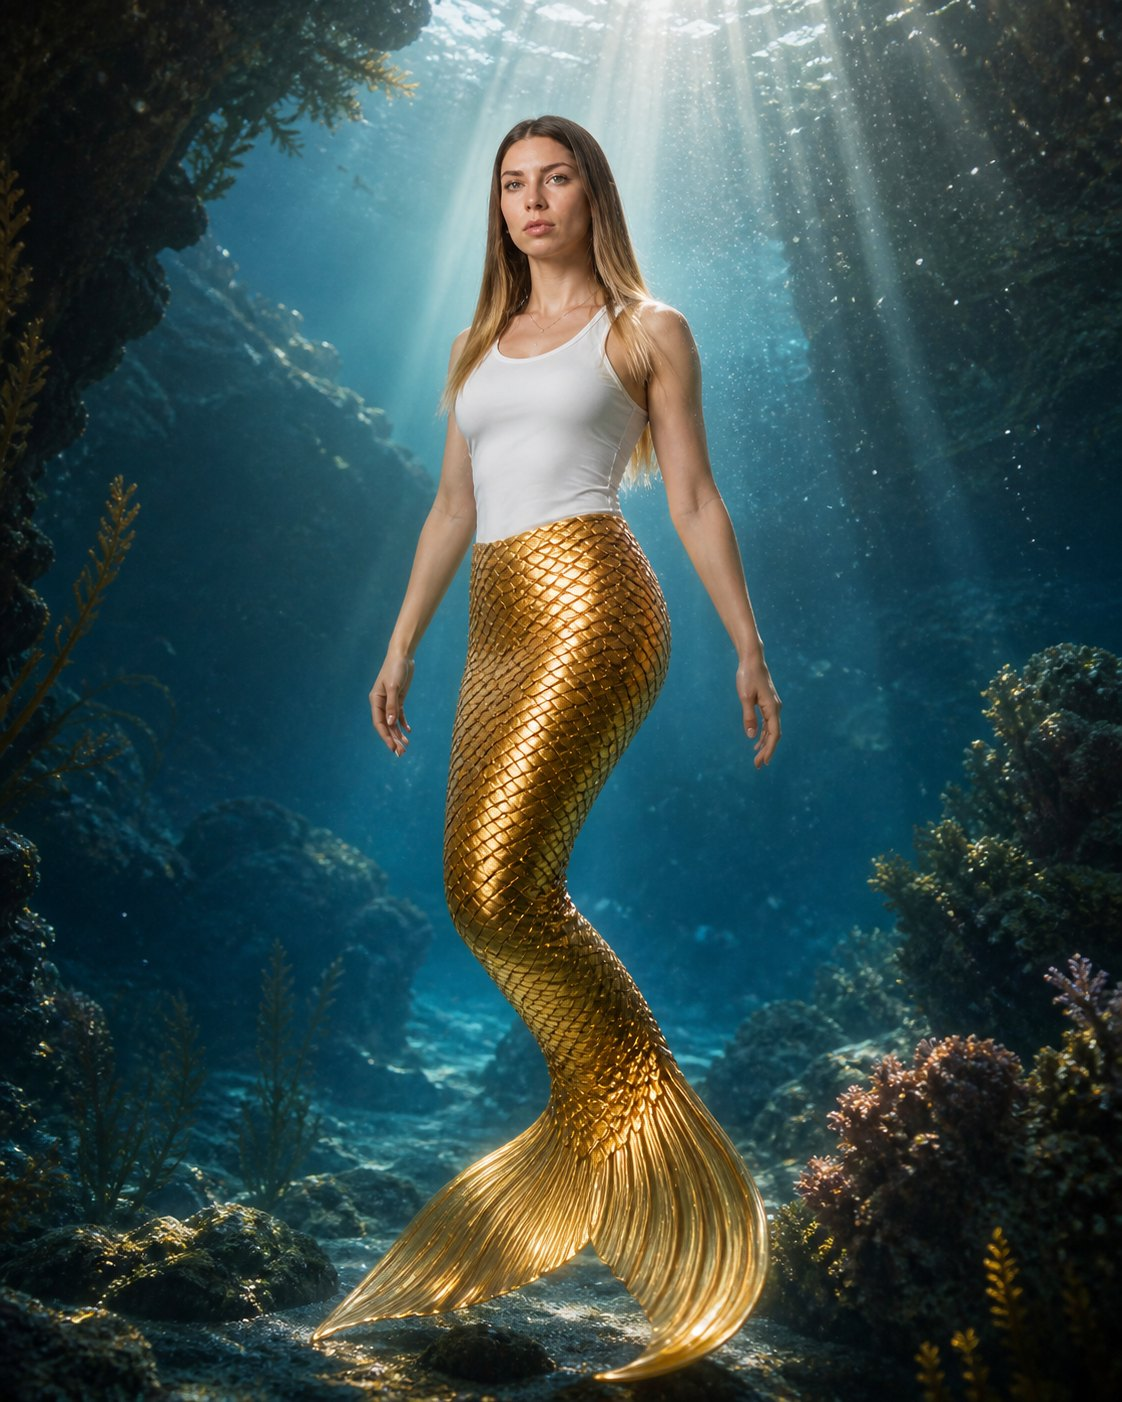
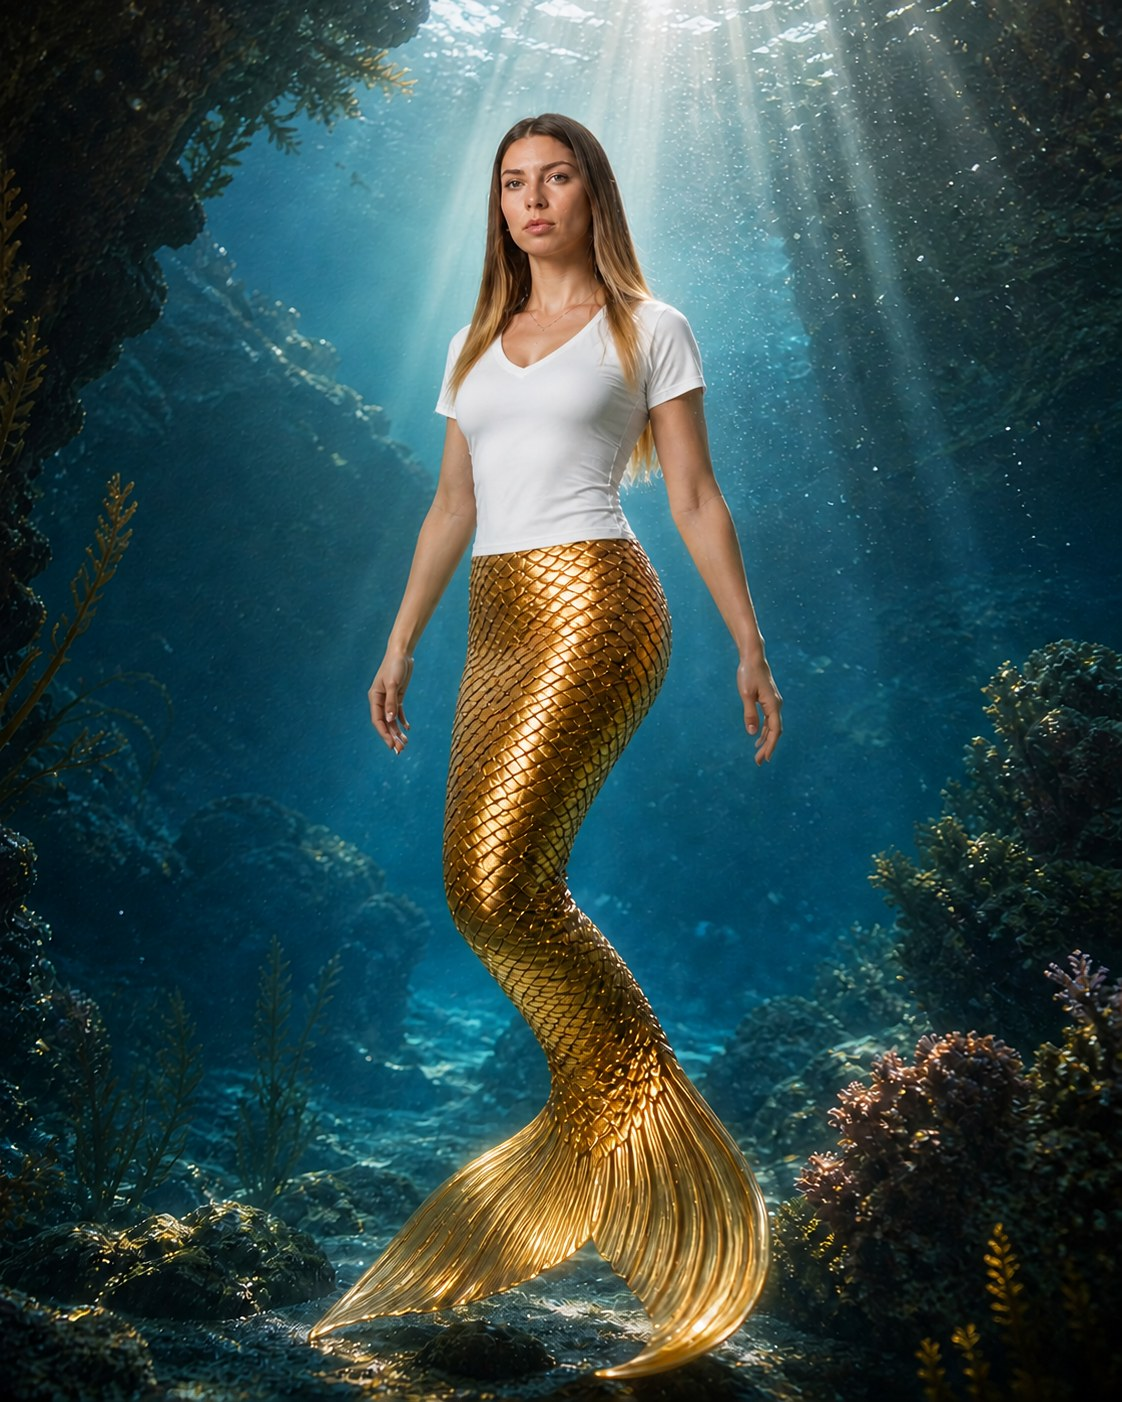
Agregar historieta y ajustar portada móvil

diff --git a/style.css b/style.css
@@ -215,3 +215,117 @@ body{
   border-top: 1px solid rgba(224, 204, 148, .35);
   margin: 2rem 0;
 }
+
+
+/* v27 - Ajustes de portada, móvil e historieta */
+.hero{
+  justify-content:center;
+}
+.hero-copy{
+  width:min(960px,92vw);
+  margin-inline:auto;
+  text-align:left;
+}
+.hero-copy .intro{
+  max-width:680px;
+}
+
+.comic-card{
+  overflow:hidden;
+}
+.comic-reader{
+  margin-top:26px;
+  display:flex;
+  flex-direction:column;
+  gap:22px;
+}
+.comic-page{
+  margin:0 auto;
+  width:min(100%, 980px);
+  border:1px solid rgba(229,196,122,.24);
+  border-radius:10px;
+  overflow:hidden;
+  background:rgba(0,0,0,.45);
+  box-shadow:0 20px 55px rgba(0,0,0,.45);
+}
+.comic-page img{
+  display:block;
+  width:100%;
+  height:auto;
+}
+.comic-cover{
+  border-color:rgba(229,196,122,.42);
+  box-shadow:0 24px 70px rgba(0,0,0,.58), 0 0 28px rgba(229,196,122,.10);
+}
+.comic-continue{
+  width:min(100%, 980px);
+  margin:10px auto 0;
+  padding:34px 22px;
+  text-align:center;
+  border:1px solid rgba(229,196,122,.34);
+  border-radius:14px;
+  background:linear-gradient(180deg,rgba(7,13,20,.82),rgba(0,0,0,.62));
+  box-shadow:0 18px 44px rgba(0,0,0,.36);
+}
+.comic-continue h3{
+  font-family:"Cinzel",serif;
+  text-transform:uppercase;
+  letter-spacing:.08em;
+  color:#f3e0a5;
+  font-size:clamp(26px,4vw,46px);
+  margin:8px 0 12px;
+}
+.comic-continue p:not(.section-kicker){
+  color:#d7c9aa;
+  margin:0;
+}
+
+@media (max-width:900px){
+  .hero{
+    padding-inline:clamp(18px,5vw,40px);
+  }
+  .hero-copy{
+    width:min(860px,94vw);
+  }
+  .portal-grid{
+    grid-template-columns:repeat(2,minmax(0,1fr));
+    gap:12px;
+    padding-inline:16px;
+  }
+  .portal-card{
+    min-height:0;
+    padding:18px 14px;
+  }
+  .portal-card h3{
+    font-size:clamp(16px,4.4vw,23px);
+    overflow-wrap:anywhere;
+  }
+  .portal-card p{
+    font-size:16px;
+    line-height:1.35;
+  }
+  .portal-card .icon{
+    font-size:30px;
+  }
+}
+@media (max-width:420px){
+  .portal-grid{
+    grid-template-columns:1fr;
+  }
+  .portal-card{
+    padding:18px 20px;
+  }
+  .hero-copy{
+    text-align:left;
+  }
+  .hero-actions .btn{
+    flex:1 1 100%;
+    text-align:center;
+  }
+  .comic-card{
+    padding:18px 12px;
+  }
+  .comic-reader{
+    gap:16px;
+  }
+}

diff --git a/index.html b/index.html
@@ -128,13 +128,73 @@
 
     <section id="historieta" class="section shell comic-card">
       <p class="section-kicker">Historieta</p>
-      <h2>Lector de historieta</h2>
-      <p>Esta sección queda preparada para cargar las páginas de la historieta cuando estén terminadas.</p>
-      <div class="comic-reader-placeholder">
-        <div class="comic-empty-page">Próximamente<br><span>Páginas ilustradas del universo Ángeles</span></div>
-        <div class="comic-controls">
-          <button class="btn btn-ghost" disabled>Anterior</button>
-          <button class="btn btn-ghost" disabled>Siguiente</button>
+      <h2>El deseo prohibido</h2>
+      <p class="section-lead">Primera tanda de páginas ilustradas del universo <strong>Ángeles: La Segunda Guerra</strong>. Esta sección seguirá creciendo a medida que se agreguen nuevas páginas.</p>
+      <div class="comic-reader">
+        <figure class="comic-page comic-cover">
+          <img src="assets/historieta/portada.jpg" alt="Portada de la historieta Ángeles: La Segunda Guerra - El deseo prohibido" loading="lazy" />
+        </figure>
+        <figure class="comic-page">
+          <img src="assets/historieta/pag01.jpg" alt="Página 01 de la historieta Ángeles: La Segunda Guerra" loading="lazy" />
+        </figure>
+        <figure class="comic-page">
+          <img src="assets/historieta/pag02.jpg" alt="Página 02 de la historieta Ángeles: La Segunda Guerra" loading="lazy" />
+        </figure>
+        <figure class="comic-page">
+          <img src="assets/historieta/pag03.jpg" alt="Página 03 de la historieta Ángeles: La Segunda Guerra" loading="lazy" />
+        </figure>
+        <figure class="comic-page">
+          <img src="assets/historieta/pag04.jpg" alt="Página 04 de la historieta Ángeles: La Segunda Guerra" loading="lazy" />
+        </figure>
+        <figure class="comic-page">
+          <img src="assets/historieta/pag05.jpg" alt="Página 05 de la historieta Ángeles: La Segunda Guerra" loading="lazy" />
+        </figure>
+        <figure class="comic-page">
+          <img src="assets/historieta/pag06.jpg" alt="Página 06 de la historieta Ángeles: La Segunda Guerra" loading="lazy" />
+        </figure>
+        <figure class="comic-page">
+          <img src="assets/historieta/pag07.jpg" alt="Página 07 de la historieta Ángeles: La Segunda Guerra" loading="lazy" />
+        </figure>
+        <figure class="comic-page">
+          <img src="assets/historieta/pag08.jpg" alt="Página 08 de la historieta Ángeles: La Segunda Guerra" loading="lazy" />
+        </figure>
+        <figure class="comic-page">
+          <img src="assets/historieta/pag09.jpg" alt="Página 09 de la historieta Ángeles: La Segunda Guerra" loading="lazy" />
+        </figure>
+        <figure class="comic-page">
+          <img src="assets/historieta/pag10.jpg" alt="Página 10 de la historieta Ángeles: La Segunda Guerra" loading="lazy" />
+        </figure>
+        <figure class="comic-page">
+          <img src="assets/historieta/pag11.jpg" alt="Página 11 de la historieta Ángeles: La Segunda Guerra" loading="lazy" />
+        </figure>
+        <figure class="comic-page">
+          <img src="assets/historieta/pag12.jpg" alt="Página 12 de la historieta Ángeles: La Segunda Guerra" loading="lazy" />
+        </figure>
+        <figure class="comic-page">
+          <img src="assets/historieta/pag13.jpg" alt="Página 13 de la historieta Ángeles: La Segunda Guerra" loading="lazy" />
+        </figure>
+        <figure class="comic-page">
+          <img src="assets/historieta/pag14.jpg" alt="Página 14 de la historieta Ángeles: La Segunda Guerra" loading="lazy" />
+        </figure>
+        <figure class="comic-page">
+          <img src="assets/historieta/pag15.jpg" alt="Página 15 de la historieta Ángeles: La Segunda Guerra" loading="lazy" />
+        </figure>
+        <figure class="comic-page">
+          <img src="assets/historieta/pag16.jpg" alt="Página 16 de la historieta Ángeles: La Segunda Guerra" loading="lazy" />
+        </figure>
+        <figure class="comic-page">
+          <img src="assets/historieta/pag17.jpg" alt="Página 17 de la historieta Ángeles: La Segunda Guerra" loading="lazy" />
+        </figure>
+        <figure class="comic-page">
+          <img src="assets/historieta/pag18.jpg" alt="Página 18 de la historieta Ángeles: La Segunda Guerra" loading="lazy" />
+        </figure>
+        <figure class="comic-page">
+          <img src="assets/historieta/pag19.jpg" alt="Página 19 de la historieta Ángeles: La Segunda Guerra" loading="lazy" />
+        </figure>
+        <div class="comic-continue">
+          <p class="section-kicker">Continuará</p>
+          <h3>La historia continúa...</h3>
+          <p>Nuevas páginas serán agregadas en próximas tandas.</p>
         </div>
       </div>
     </section>